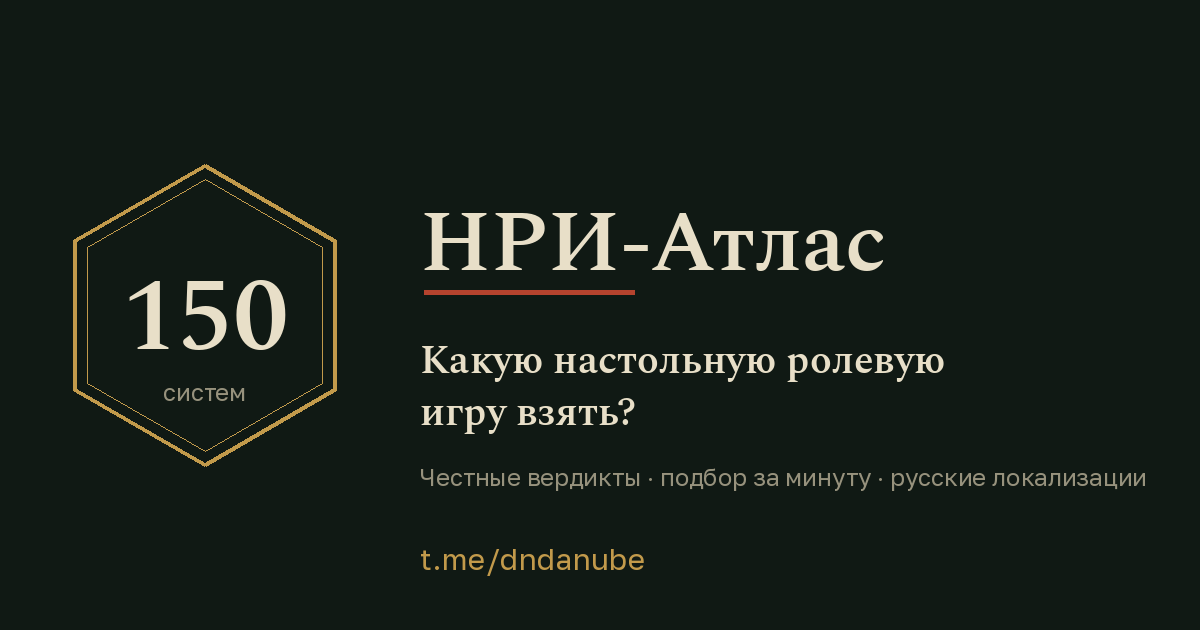
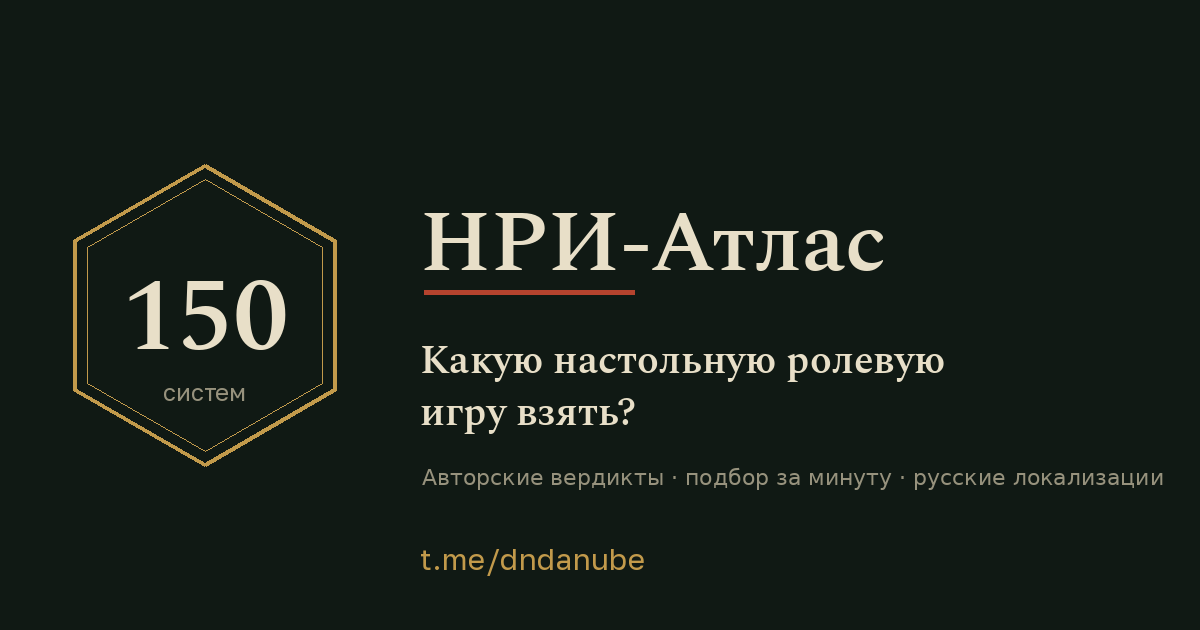
og-картинка: авторские вердикты вместо честных; версия ссылки для сброса кэша

Changed region(s): [[0.3392, 0.7238, 0.9867, 0.7841]]

diff --git a/index.html b/index.html
@@ -9,7 +9,7 @@
 <meta property="og:title" content="НРИ-Атлас — какую настольную ролевую игру взять">
 <meta property="og:description" content="150 систем, авторские вердикты, подбор за минуту. Рейтинг под вашу задачу, сравнение и таблица русских локализаций.">
 <meta property="og:url" content="https://vasaris.github.io/nri-atlas/">
-<meta property="og:image" content="https://vasaris.github.io/nri-atlas/og.png">
+<meta property="og:image" content="https://vasaris.github.io/nri-atlas/og.png?v=2">
 <meta property="og:image:width" content="1200">
 <meta property="og:image:height" content="630">
 <meta name="twitter:card" content="summary_large_image">
